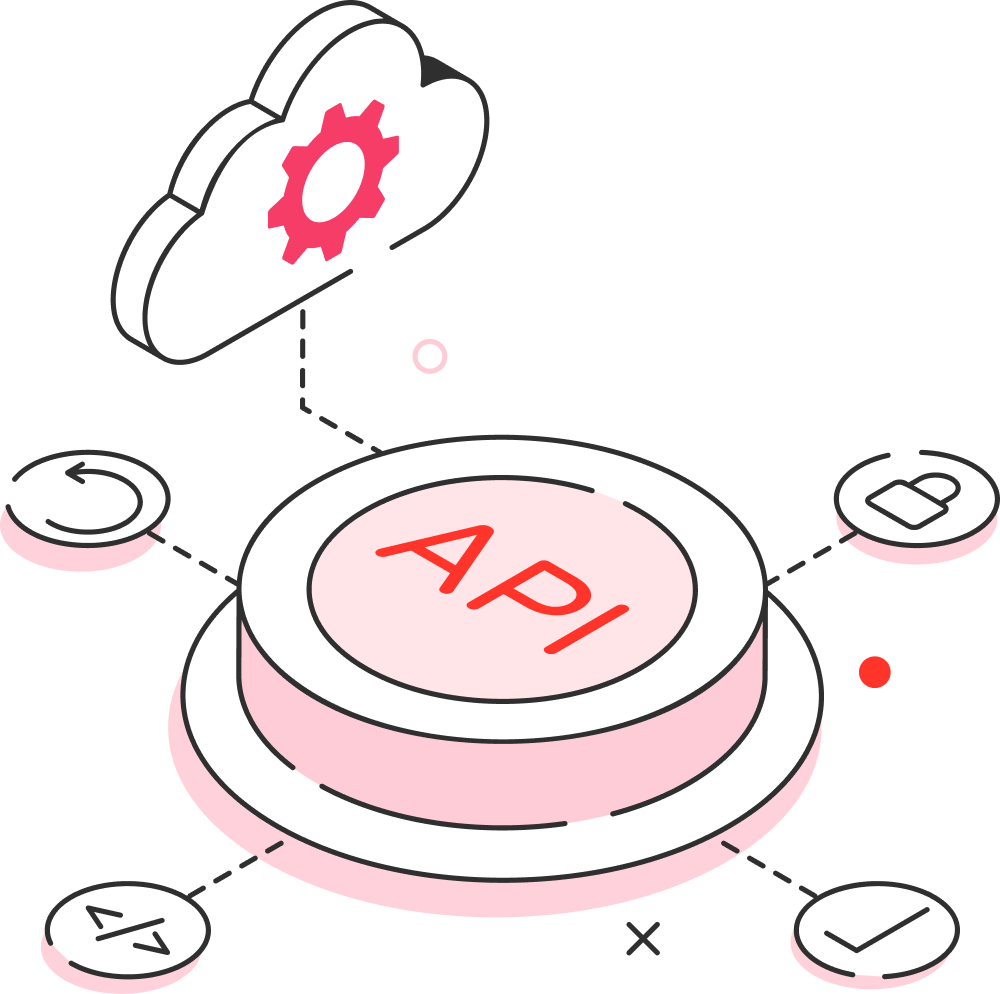
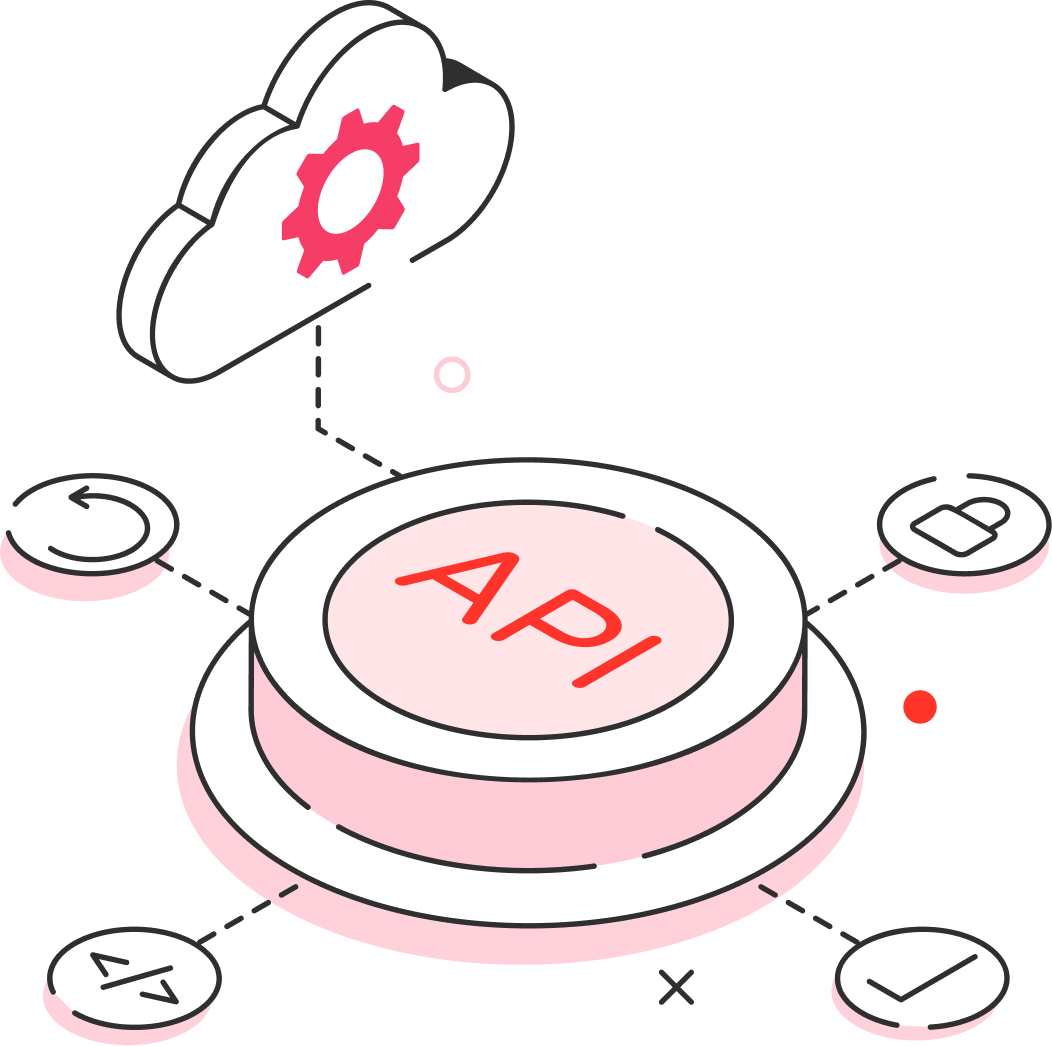
Hero Section Completed with Fixes

diff --git a/app/(pages)/reinsurers/page.tsx b/app/(pages)/reinsurers/page.tsx
@@ -7,14 +7,14 @@ import React from "react";
 const Page = () => {
   return (
     <div className=" min-h-dvh p-4">
-      <div className="rounded-[30px] bg-light-blue w-full">
+      <div className="rounded-[30px] bg-white-smoke w-full">
         <HeroSection
           heading={
             <>
               A clearer{" "}
               <span
                 className="font-playfair text-white inline-block rounded-full
-                          [background:linear-gradient(170deg,#2970FF_41.33%,#0040C1_102.06%)] [box-shadow:inset_0_-1.441px_7.351px_0_#2970FF,0_1.441px_24.649px_0_rgba(41,112,255,0.50)]
+                          [background:linear-gradient(170deg,#36BFFA_41.33%,#0086C9_102.06%)] [box-shadow:inset_0_-1.441px_7.351px_0_#36BFFA,0_1.441px_24.649px_0_rgba(54,191,250,0.50)]
                             px-5 pb-2 w-fit mt-2"
               >
                 clinical layer
@@ -44,8 +44,8 @@ const Page = () => {
               variant: "secondary",
             },
           ]}
-          image={images.howitworksimages.PersonStandingImage}
-          imageAlt={"Person Standing"}
+          image={images.reinsurersimages.LayersImage}
+          imageAlt={"Layers Image"}
         />
       </div>
     </div>

diff --git a/app/(pages)/platform-overview/page.tsx b/app/(pages)/platform-overview/page.tsx
@@ -14,8 +14,7 @@ const Page = () => {
               The clinical infrastructure layer for{" "}
               <span
                 className="font-playfair w-fit text-white inline-block rounded-full
-                                       [background:linear-gradient(170deg,#15B79E_41.33%,#125D56_102.06%)]
-          [box-shadow:inset_0_-1.441px_7.351px_0_#2ED3B7,0_1.441px_24.649px_0_rgba(46,211,183,0.50)]
+                                       [background:linear-gradient(170deg,#15B79E_41.33%,#125D56_102.06%)] [box-shadow:inset_0_-1.441px_7.351px_0_#2ED3B7,0_1.441px_24.649px_0_rgba(46,211,183,0.50)]
                                       px-5 pb-2  "
               >
                 modern
@@ -43,8 +42,8 @@ const Page = () => {
               variant: "secondary",
             },
           ]}
-          image={images.howitworksimages.PersonStandingImage}
-          imageAlt={"Person Standing"}
+          image={images.platformoverviewimages.PlatformOverviewImage}
+          imageAlt={"Platform Overview"}
         />
       </div>
     </div>

diff --git a/app/ui/index.ts b/app/ui/index.ts
@@ -3,4 +3,9 @@ import { forunderwritingteamsimages } from "./forunderwritingteams";
 import { securityandcomplianceimages } from "./securityandcompliance";
 import { apiimages } from "./integrationsapi";
 import { insuremdimages } from "./insuremd";
-export const images = {insuremdimages,howitworksimages,forunderwritingteamsimages,securityandcomplianceimages,apiimages}
+import { reinsurersimages } from "./reinsurers";
+import { usecasesimages } from "./usecases";
+import { clinicalpageimages } from "./clinicalimages";
+import { applicantexperienceimages } from "./applicantexperienceimages";
+import { platformoverviewimages } from "./platformoverviewimages";
+export const images = {platformoverviewimages,insuremdimages,howitworksimages,forunderwritingteamsimages,securityandcomplianceimages,apiimages,reinsurersimages,usecasesimages,clinicalpageimages,applicantexperienceimages}

diff --git a/app/components/sections/HeroSection.tsx b/app/components/sections/HeroSection.tsx
@@ -30,8 +30,8 @@ export default function HeroSection({
   imageAlt,
 }: HeroSectionProps) {
   return (
-    <section>
-      <div className="container grid grid-cols-1 lg:grid-cols-2 gap-12 items-center max-w-7xl   mx-auto px-8 pt-24">
+    <section className="pb-24 pt-49">
+      <div className="container grid grid-cols-1 lg:grid-cols-2 gap-10  max-w-7xl   mx-auto px-8">
         <div className="flex flex-col gap-6">
           <h2 className="text-headingfont font-extrabold leading-[110%] tracking-[-0.03em] text-black">
             {heading}
@@ -69,7 +69,7 @@ export default function HeroSection({
           )}
         </div>
         <div>
-          <Image src={image} alt={imageAlt} />
+          <Image src={image} alt={imageAlt} className="h-full" />
         </div>
       </div>
     </section>

diff --git a/app/(pages)/applicant-experience/page.tsx b/app/(pages)/applicant-experience/page.tsx
@@ -42,8 +42,8 @@ const Page = () => {
               variant: "secondary",
             },
           ]}
-          image={images.howitworksimages.PersonStandingImage}
-          imageAlt={"Person Standing"}
+          image={images.applicantexperienceimages.ApplicantExperienceImage}
+          imageAlt={"Applicant Experience"}
         />
       </div>
     </div>

diff --git a/app/(pages)/use-cases/page.tsx b/app/(pages)/use-cases/page.tsx
@@ -43,8 +43,8 @@ const Page = () => {
               variant: "secondary",
             },
           ]}
-          image={images.howitworksimages.PersonStandingImage}
-          imageAlt={"Person Standing"}
+          image={images.usecasesimages.LaptopScreenImages}
+          imageAlt={"Laptop screen images"}
         />
       </div>
     </div>

diff --git a/app/(pages)/how-it-works/page.tsx b/app/(pages)/how-it-works/page.tsx
@@ -6,8 +6,8 @@ import React from "react";
 
 const Page = () => {
   return (
-    <div className=" min-h-dvh p-4">
-      <div className="rounded-[30px]  bg-ceramic w-full ">
+    <div className=" min-h-dvh  p-4">
+      <div className="rounded-[30px]  bg-teal-50 w-full ">
         <HeroSection
           heading={
             <>

diff --git a/app/(pages)/underwriting-teams/page.tsx b/app/(pages)/underwriting-teams/page.tsx
@@ -7,7 +7,7 @@ import React from "react";
 const Page = () => {
   return (
     <div className=" min-h-dvh  p-4">
-      <div className="rounded-[30px] pb-14 pt-24  bg-light-skyblue w-full">
+      <div className="rounded-[30px]   bg-light-skyblue w-full">
         <HeroSection
           heading={
             <>

diff --git a/app/(pages)/security-compliance/page.tsx b/app/(pages)/security-compliance/page.tsx
@@ -7,7 +7,7 @@ import React from "react";
 const Page = () => {
   return (
     <div className=" min-h-dvh p-4">
-      <div className="rounded-[30px]  bg-light-purple w-full pb-14 pt-24">
+      <div className="rounded-[30px]  bg-light-purple w-full">
         <HeroSection
           heading={
             <>

diff --git a/app/(pages)/why-insur-md/page.tsx b/app/(pages)/why-insur-md/page.tsx
@@ -7,7 +7,7 @@ import React from "react";
 const Page = () => {
   return (
     <div className=" min-h-dvh p-4">
-      <div className="rounded-[30px] bg-white-smoke w-full pb-14 pt-24">
+      <div className="rounded-[30px] bg-white-smoke w-full">
         <HeroSection
           heading={
             <>

diff --git a/app/(pages)/integrations-api/page.tsx b/app/(pages)/integrations-api/page.tsx
@@ -7,7 +7,7 @@ import React from "react";
 const Page = () => {
   return (
     <div className=" min-h-dvh p-4">
-      <div className="rounded-[30px] bg-light-red w-full pb-14 pt-24">
+      <div className="rounded-[30px] bg-light-red  w-full ">
         <HeroSection
           heading={
             <>

diff --git a/app/(pages)/physician-network-clinical-governance/page.tsx b/app/(pages)/physician-network-clinical-governance/page.tsx
@@ -43,7 +43,7 @@ const Page = () => {
               variant: "secondary",
             },
           ]}
-          image={images.howitworksimages.PersonStandingImage}
+          image={images.clinicalpageimages.ClinicalGovernanceImage}
           imageAlt={"Person Standing"}
         />
       </div>
